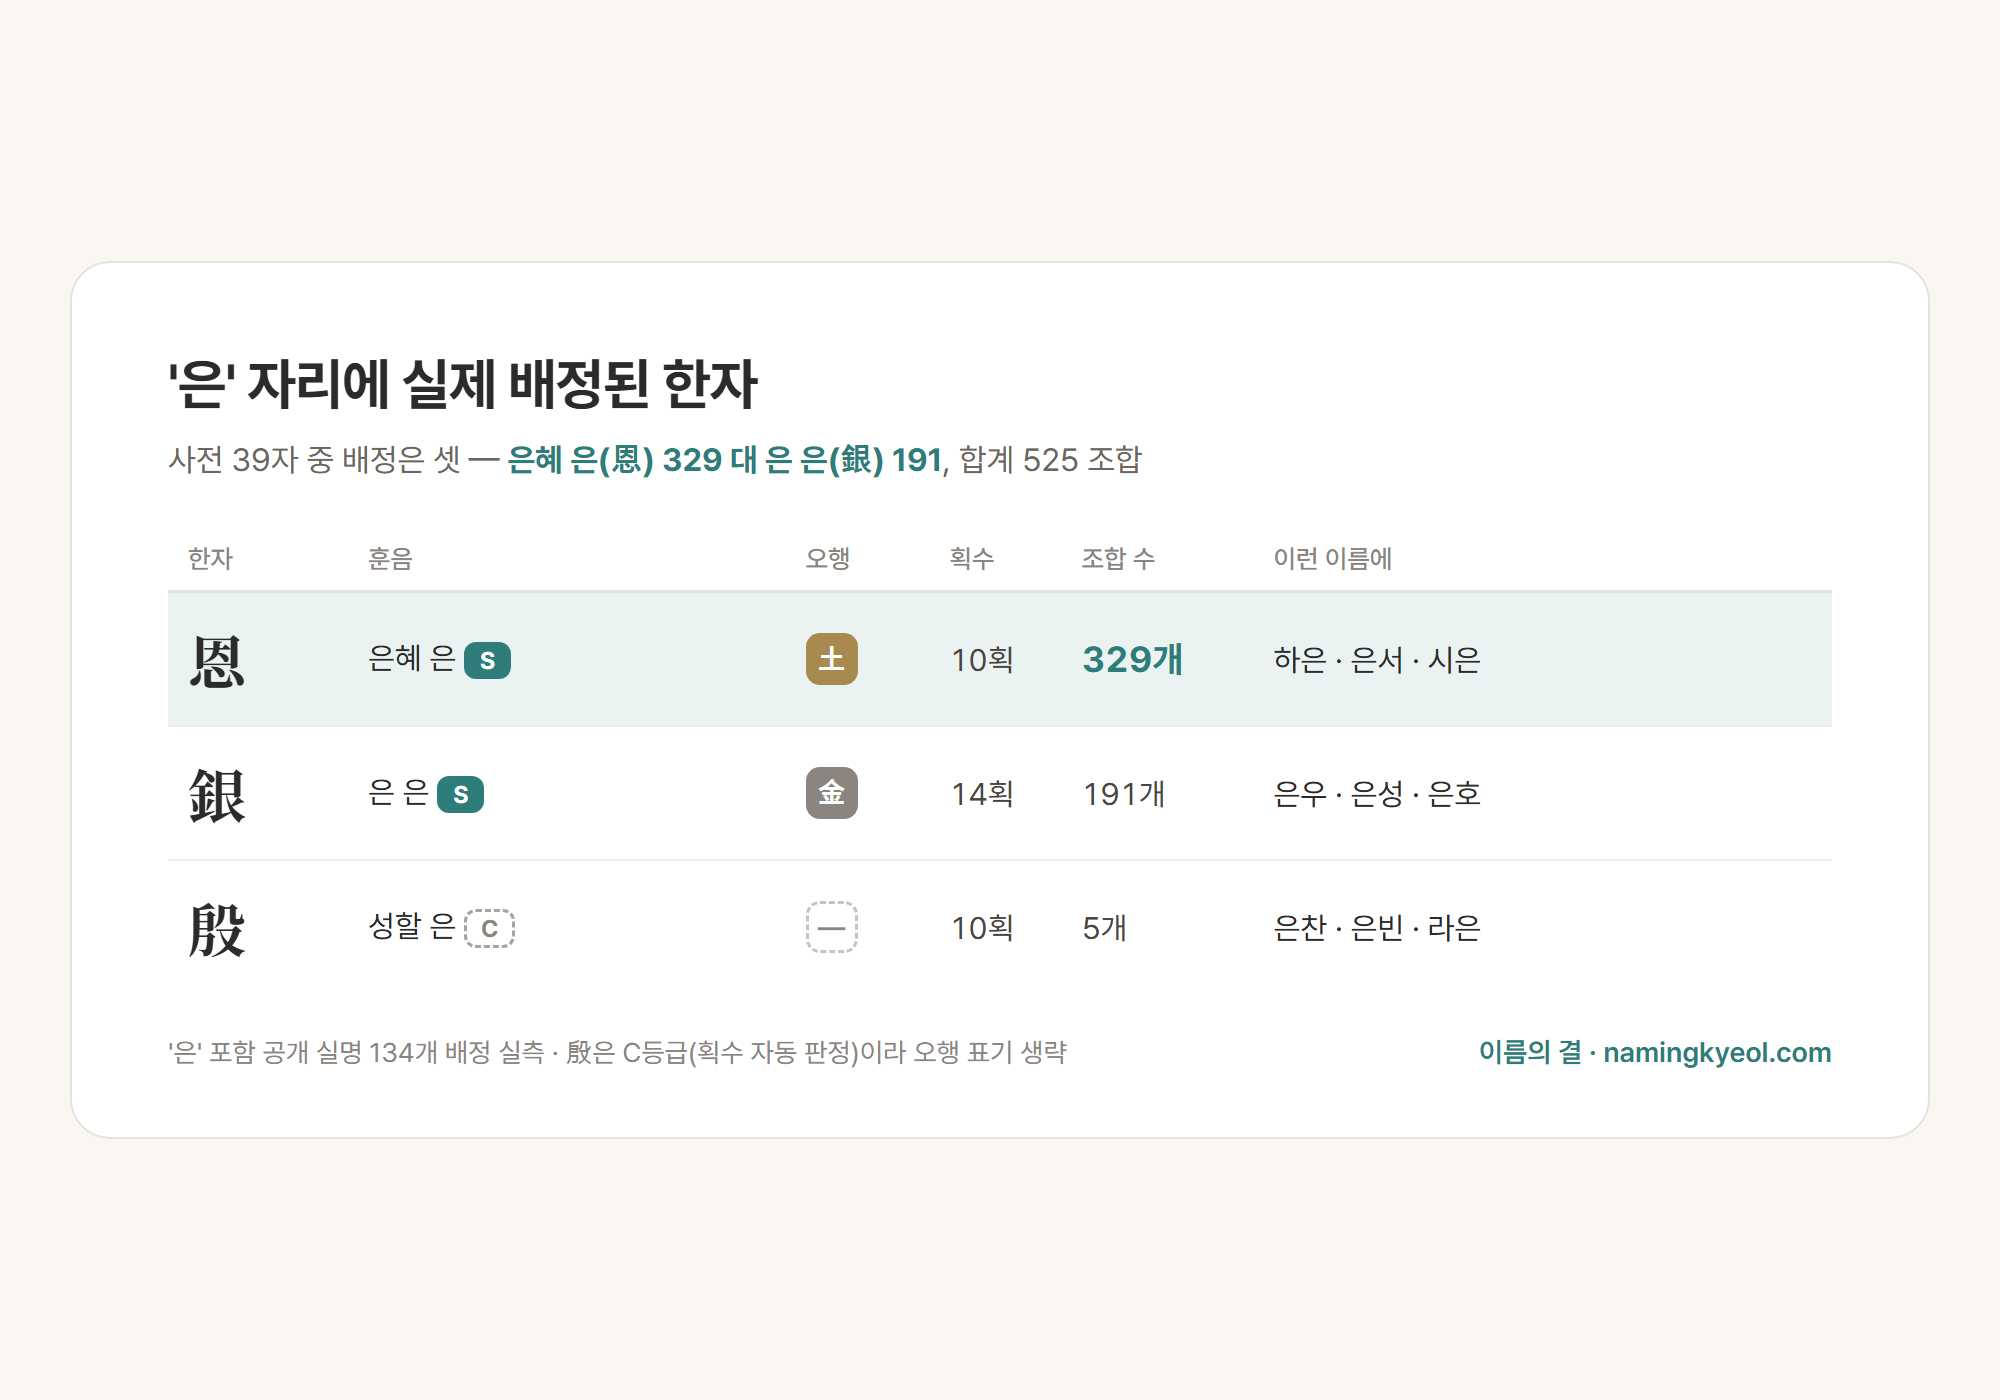
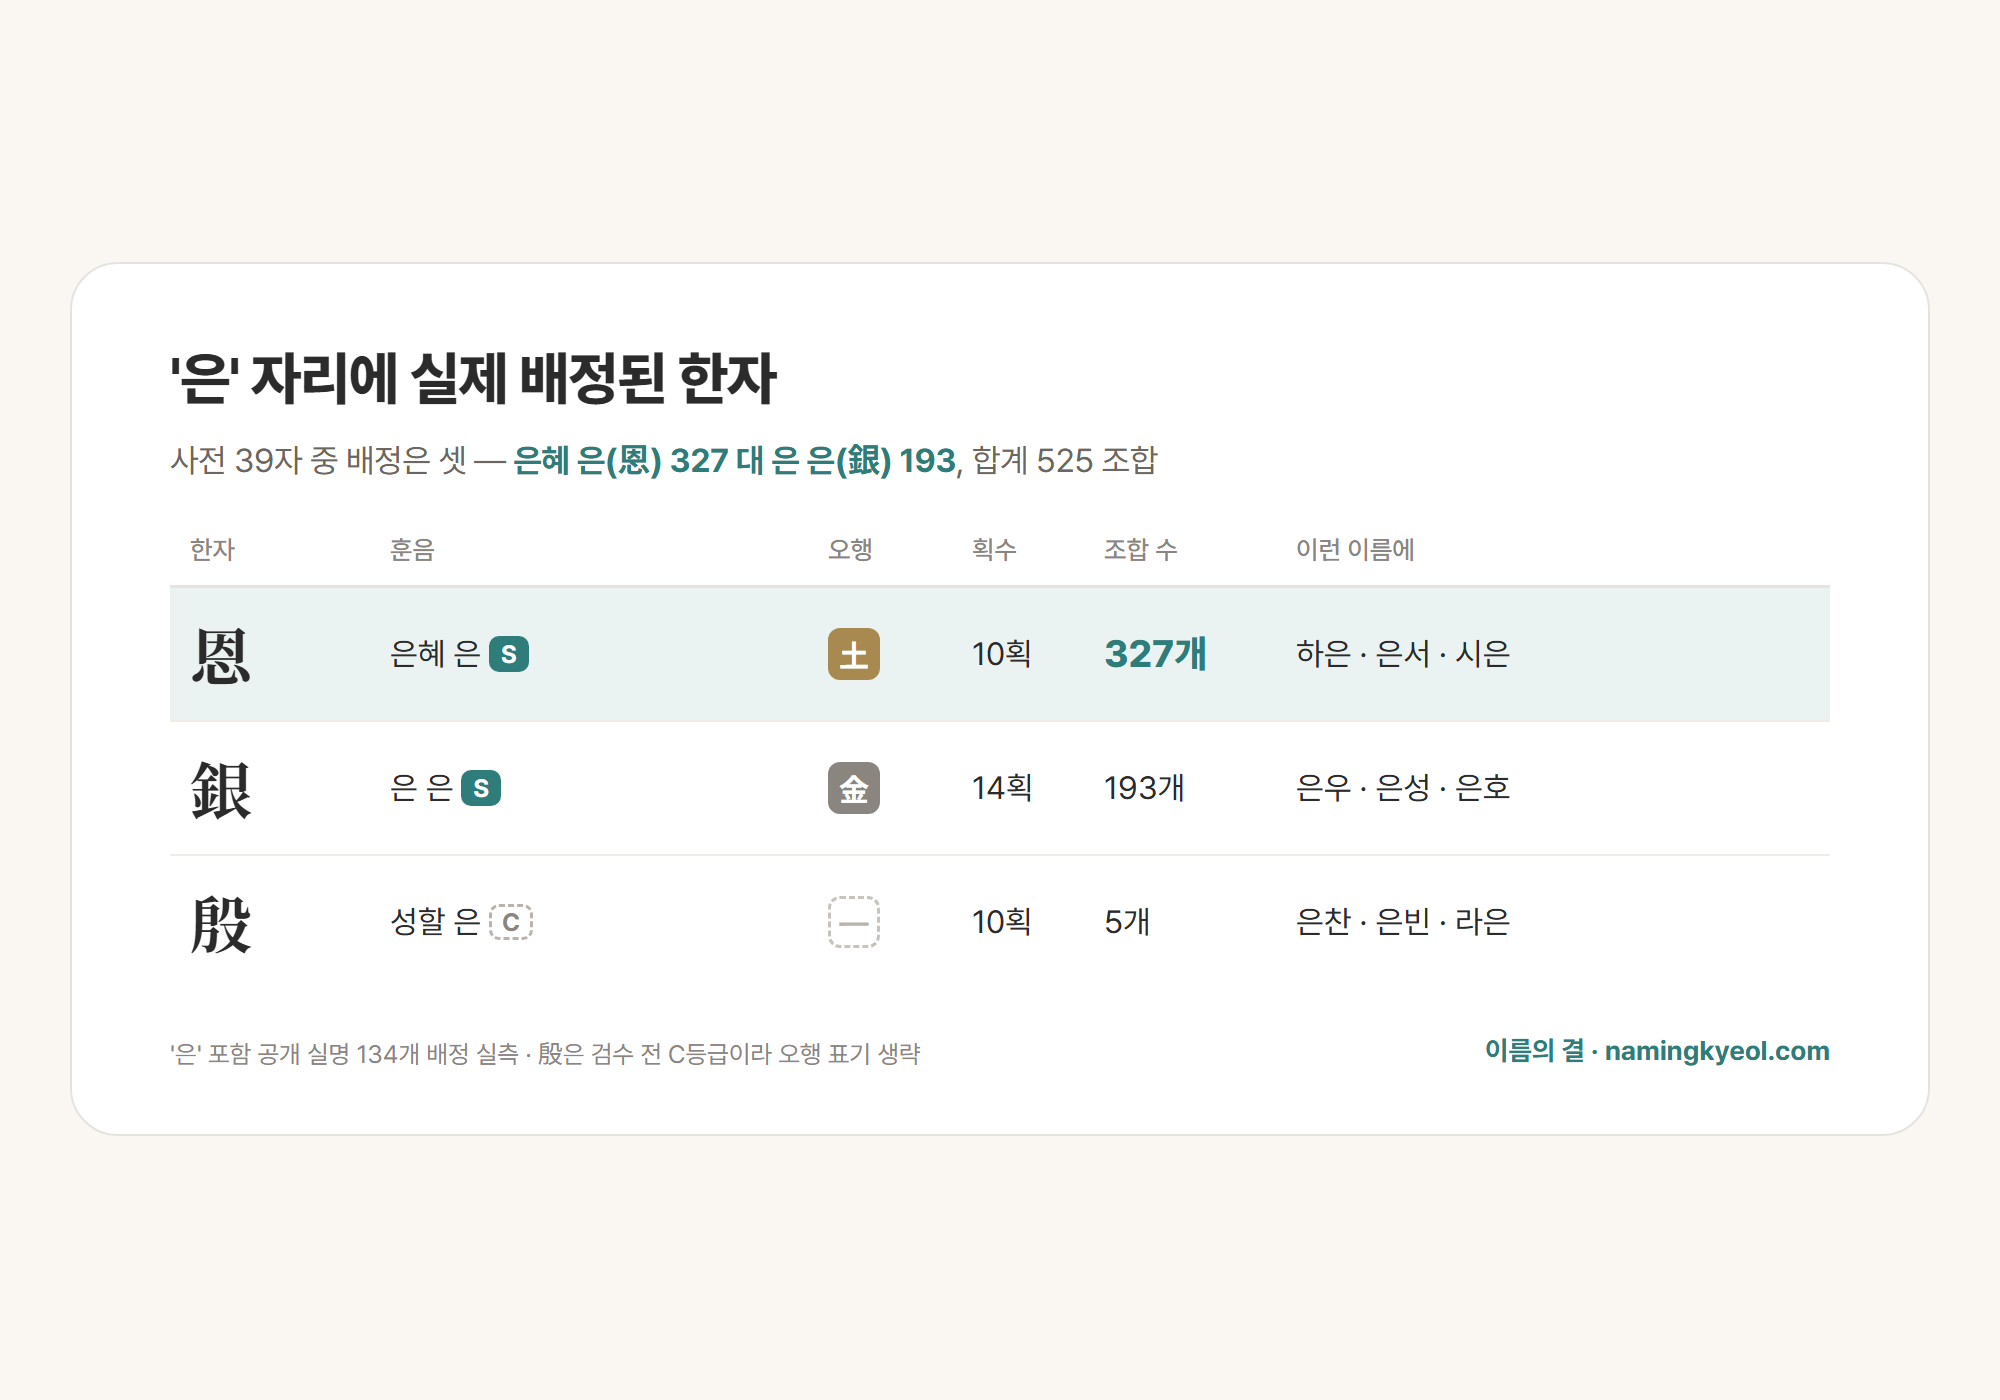
docs(blog): 20 '은'·22 '재원' 초안을 10/7 /name 데이터 정정에 맞춤 + 15편 발행 로그 비고 [skip render]
/name 데이터 정정(6d809fd — 약자 쌍 빈칸 채우기 중단·烋 약자 지정·대표 뜻 모순 교체) 후속.

- 20 '은': 恩 329→327·銀 191→193(효은·은효의 烋 조합 빠짐), 차 138→134, 恩 비중 63→62%,
  성비 교차 恩 288→286·銀 87→89. 제목·표·본문·정리·각주 ④⑦⑫ 갱신, 정정 이력 각주 ⑭,
  발행 지시 ⑥(발행 직전 재집계 — 진행 중인 데이터 세션 반영 시 恩 325·銀 194·殷 6).
  표 이미지 data12-eun-table.png 같은 디자인으로 재제작(殷 각주 '획수 자동 판정' → '검수 전 C등급').
- 22 '재원': 대표 뜻 인용 "넉넉하고 으뜸가는 큰 그릇" → "다스림이 샘솟는 근원의"('으뜸'=元이
  표시 조합에 없어 1순위 宰源 뜻으로 교체됨). 본문은 표와 중복 인용을 피해 "첫 조합 宰源의 풀이를
  대표 뜻으로 삼았다"로, 정리는 새 뜻 인용. 분량 +5자(1,696, 상한 안).
- strategy.md: 15편 '아' 발행 로그에 발행 당시 雅175·娥158·兒5 → 사이트 174·159·0 비고
  (발행 직후 수정 금지 원칙대로 본문 유지), 큐 20·22 행 갱신.

diff --git a/docs/naver-blog/posts/22-재원-이름-뜻.md b/docs/naver-blog/posts/22-재원-이름-뜻.md
@@ -52,7 +52,7 @@
 材를 얹으면 쓰임새 있는 재목이, 載를 얹으면 가득 담아 나르는 그릇이 그 위에 섭니다. 네
 글자 가운데 載 하나만 '대'(떠받들 대)라는 두 번째 소리를 지니고 있어요. 宰·載는 금(金),
 才·材는 목(木), 源은 수(水)라 宰源·載源은 금생수, 才源·材源은 수생목으로 네 조합 모두
-상생입니다. 제 이름 도구에 적힌 대표 뜻은 "넉넉하고 으뜸가는 큰 그릇", 서사는 "넉넉한
+상생입니다. 제 이름 도구는 그중 첫 조합 宰源의 풀이를 대표 뜻으로 삼았고, 서사는 "넉넉한
 품으로 거침없이 제 자리를 채워가는 사람"이에요.
 
 ### 94 대 6, 그래도 딸 재원은 575명입니다
@@ -107,7 +107,7 @@
 ### 정리
 
 - 재원 이름 뜻은 샘(源) 하나 위에 宰·才·材·載 중 하나를 얹는 구조 — 어느 조합이든 근원 원은
-  그대로이고, 도구가 꼽은 대표 풀이는 "넉넉하고 으뜸가는 큰 그릇"입니다
+  그대로이고, 도구가 꼽은 대표 풀이는 첫 조합 宰源의 "다스림이 샘솟는 근원의"입니다
 - 누적 9,176명, 남 94%·여 6%로 크게 기울었지만 여자아이 재원도 575명, 해마다 50명 가까이
   있습니다
 - '-원' 이름 69개는 합치면 여 53%로 반반인데, 누적 상위 12개만 봐도 앞 글자에 따라 여
@@ -131,7 +131,7 @@ https://namingkyeol.com/name/재원?utm_source=naver_blog&utm_medium=post&utm_ca
 > 없음. 제목은 후보 1·2에만 키워드 포함 — 후보 3 선택 시 제목 카운트 0회가 되므로 후보 1
 > 권장(재조준 근거인 "재원 여자" 의도와도 정합). 보조어 "재원 여자"는 본문 1회('94 대 6'
 > 섹션 말미, "재원 여자아이")로만 자연 노출
-> **분량**: 표 제외 공백 제외 1,691자(소제목 포함) · 1,600자(소제목 제외) 실측 — `[여기에 직접]`
+> **분량**: 표 제외 공백 제외 1,691자(소제목 포함) · 1,600자(소제목 제외) 실측(10/7 대표 뜻 정정으로 +5자 → 1,696 · 1,605) — `[여기에 직접]`
 > 안내문·이미지 지시·URL 문자열·마크다운 기호 제외, 1,400~1,700 범위 안. 검증 반영으로
 > 늘어난 분량은 도입 순위 문장·요약 둘째 불릿·S등급 문구·맺음말을 줄여 상쇄(개인 단락
 > 작성분이 더해지면 체류 2분 30초+ 설계 충족)
@@ -182,7 +182,10 @@ https://namingkyeol.com/name/재원?utm_source=naver_blog&utm_medium=post&utm_ca
 > 載(실을 재/떠받들 대, 金 S, 13획 陽) · 源(근원 원, 水 S, 13획 陽) — 다섯 자 전부 검수 S등급
 > (본문에선 분량상 S등급 문구 생략). 상생은 사이트 ohaengRelation 규칙 그대로 조합별 관계
 > 하나씩: 宰源·載源 = 金生水, 才源·材源 = 水生木. 복수 훈음은 載 하나뿐(宰·才·材·源은 단일 훈음)
-> ⑦ 조합 뜻 4개는 comboMeans 원문, 대표 뜻·서사는 /name/재원 원문 — 직접 인용은 대표 뜻·서사
-> 2곳뿐(따옴표 처리), 나머지 전부 재서술 ⑧ 載의 복수 훈음은 표에 대표 훈만 싣고 본문 한
+> ⑦ 조합 뜻 4개는 comboMeans 원문, 대표 뜻·서사는 /name/재원 원문 — 직접 인용은 서사(본문)·대표 뜻(정리)
+> 2곳뿐(따옴표 처리), 나머지 전부 재서술. **2026-10-07 정정**: 대표 뜻이 "넉넉하고 으뜸가는 큰 그릇" →
+> "다스림이 샘솟는 근원의"로 바뀜(커밋 6d809fd — 옛 뜻의 '으뜸'은 元의 훈인데 표시 조합 宰源·才源·材源·載源에
+> 元이 없어 1순위 조합 뜻으로 자동 교체). 새 대표 뜻이 표 첫 줄 宰源 뜻과 같은 문장이라 본문은 "첫 조합 宰源의
+> 풀이를 대표 뜻으로 삼았다"로 바꿔 중복 인용을 피함. 서사·조합 4개·조합 뜻은 불변(발행 직전 /name/재원 재확인) ⑧ 載의 복수 훈음은 표에 대표 훈만 싣고 본문 한
 > 문장으로 보충(희재 편과 같은 처리, 문장은 새로 씀) ⑨ 2편(posts/02) 표 실측: 지원 여 61%·
 > 27,317명 수록(서원은 미수록) — 본문 수치와 일치

diff --git a/docs/naver-blog/strategy.md b/docs/naver-blog/strategy.md
@@ -102,7 +102,7 @@
 | 12 | 2026-09-18 | https://blog.naver.com/podonabi1/224415718148 | 한자 5탄 '유' (초안 14, UTM data09). 발행 직전 137자로 수치 갱신·표 이미지 재생성 |
 | 13(뜻) | 2026-09-22 | https://blog.naver.com/podonabi1/224419711019 | 이름뜻 4호 '다온' (초안 15, UTM mean04). 2026-09-22 사용자 제공 URL |
 | 14(뜻) | 2026-09-29 | https://blog.naver.com/podonabi1/224426202838 | 이름뜻 5호 '희재' (초안 16, UTM mean05) "기쁠 희는 고정, '재'가 네 갈래로 갈립니다". RSS pubDate 실측(2026-10-07 기록) — 한자 조합 표 이미지 `images/mean05-huijae-hanja-table.png` 추가 제작분 |
-| 15 | 2026-10-07 | https://blog.naver.com/podonabi1/224433982049 | 한자 6탄 '아' (초안 17, UTM data10) — 제목 후보 2 "맑을 아(雅)와 예쁠 아(娥), 175 대 158". 태그 12개(아한자 선두 = 실측 검색어). 1차 리뷰 부스트 후보 마지막 소진 |
+| 15 | 2026-10-07 | https://blog.naver.com/podonabi1/224433982049 | 한자 6탄 '아' (초안 17, UTM data10) — 제목 후보 2 "맑을 아(雅)와 예쁠 아(娥), 175 대 158". 태그 12개(아한자 선두 = 실측 검색어). 1차 리뷰 부스트 후보 마지막 소진. **발행 당시(9/18 집계·공개 3,445 기준) 雅175·娥158·亞50·兒5(합 388)** — 같은 날 /name 데이터 정정(커밋 6d809fd: 약자 쌍 빈칸 채우기 중단·烋 약자 지정)으로 사이트는 같은 기준 雅174·娥159·亞50·兒0(합 383), 아라·아란·아령·아련·류아의 兒 조합 제외 → 본문 '실전 배정 4자'·'세 갈래'도 사이트와 다름. 핵심(雅·娥 접전, 상위 2자 333)은 유지돼 발행 직후 수정 금지 원칙대로 본문은 그대로 둠(8·9편과 같은 처리) |
 
 > 8~13편 발행일은 2026-09-24 RSS(rss.blog.naver.com/podonabi1.xml) pubDate 실측으로 확정.
 > 최근 리듬 = 3~5일 간격(주 1.5~2편). 남은 버퍼 4편(초안 16·17·18·19)은 약 2~3주치 → 10월 둘째 주 전에 보충 생산.
@@ -137,8 +137,8 @@
 | 큐 | 편 | 소재 | 카테고리 | 발행 조건 |
 |----|----|------|----------|-----------|
 | 1 | 18 | 이름뜻 6호 '한결' (mean06) | 이름뜻 | 즉시 가능 — 2편 링크만 사용 |
-| 2 | 20 | 한자 7탄 '은' (data12) — 恩 329 대 銀 191 | 이름데이터 | 즉시 가능 — '아' 편 링크 |
-| 3 | 22 | 이름뜻 7호 '재원' (mean07) — "재원 여자" 검색에 94:6 데이터로 답 | 이름뜻 | 즉시 가능 — 희재·2편 링크 |
+| 2 | 20 | 한자 7탄 '은' (data12) — 恩 327 대 銀 193 (10/7 데이터 정정 반영, 표 이미지 재제작) | 이름데이터 | 즉시 가능 — '아' 편 링크. ⚠ 발행 직전 조합 수 재집계(진행 중인 데이터 세션 반영 시 恩 325·銀 194·殷 6) |
+| 3 | 22 | 이름뜻 7호 '재원' (mean07) — "재원 여자" 검색에 94:6 데이터로 답 | 이름뜻 | 즉시 가능 — 희재·2편 링크. 대표 뜻 인용 10/7 정정("다스림이 샘솟는 근원의") |
 | 4 | 21 | 한자 8탄 '예' (data13) — 禮·藝·譽 3파전 | 이름데이터 | 즉시 가능 — '아' 편 링크 |
 | 5 | 23 | 한자 9탄 '호' (data14) — 95% 남초, '아' 편과 대칭 | 이름데이터 | 즉시 가능 — '아' 편 링크 |
 | 6 | 19 | 새로 추가된 이름 2묶음 (data11) | 이름데이터 | ⚠ 9/18 작성 — 이후 코호트 3개(9/20·9/27·10/4)가 더 열렸으므로 발행 전 name-seo.json 재집계로 표·수치 갱신 필요 |
